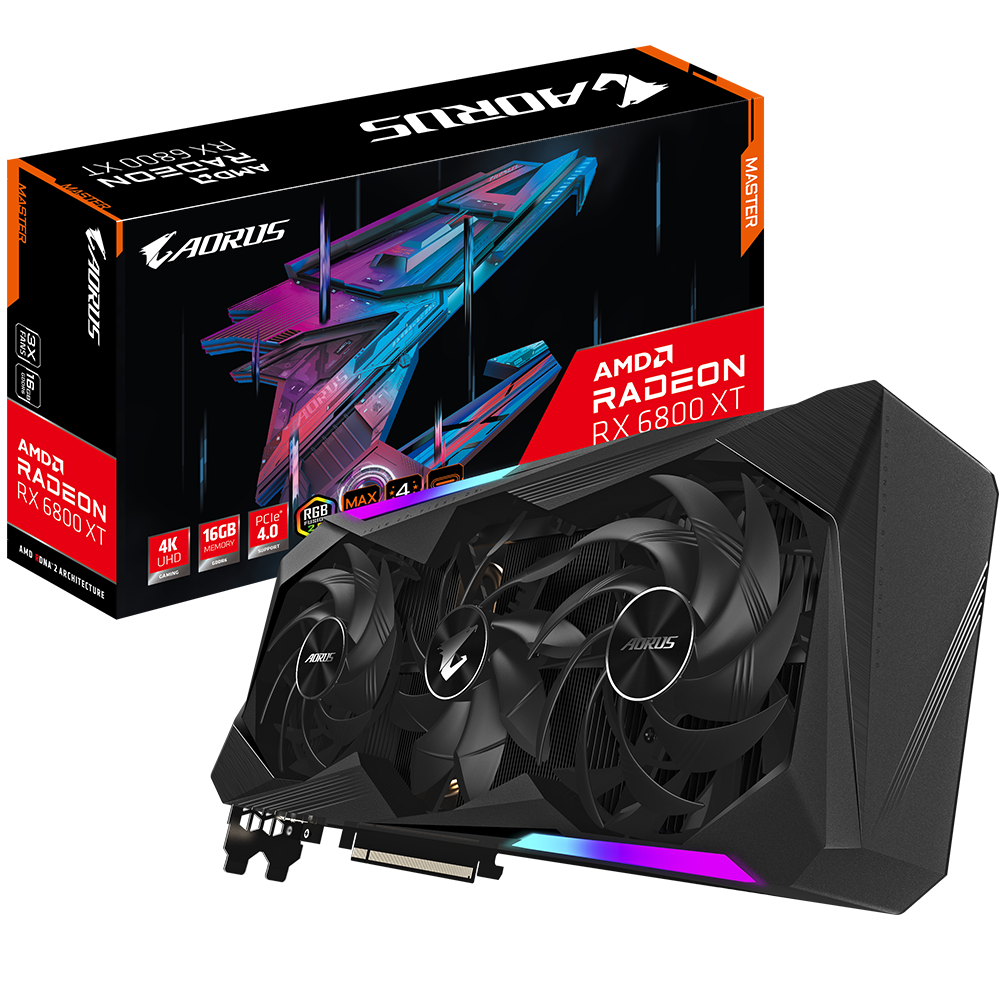
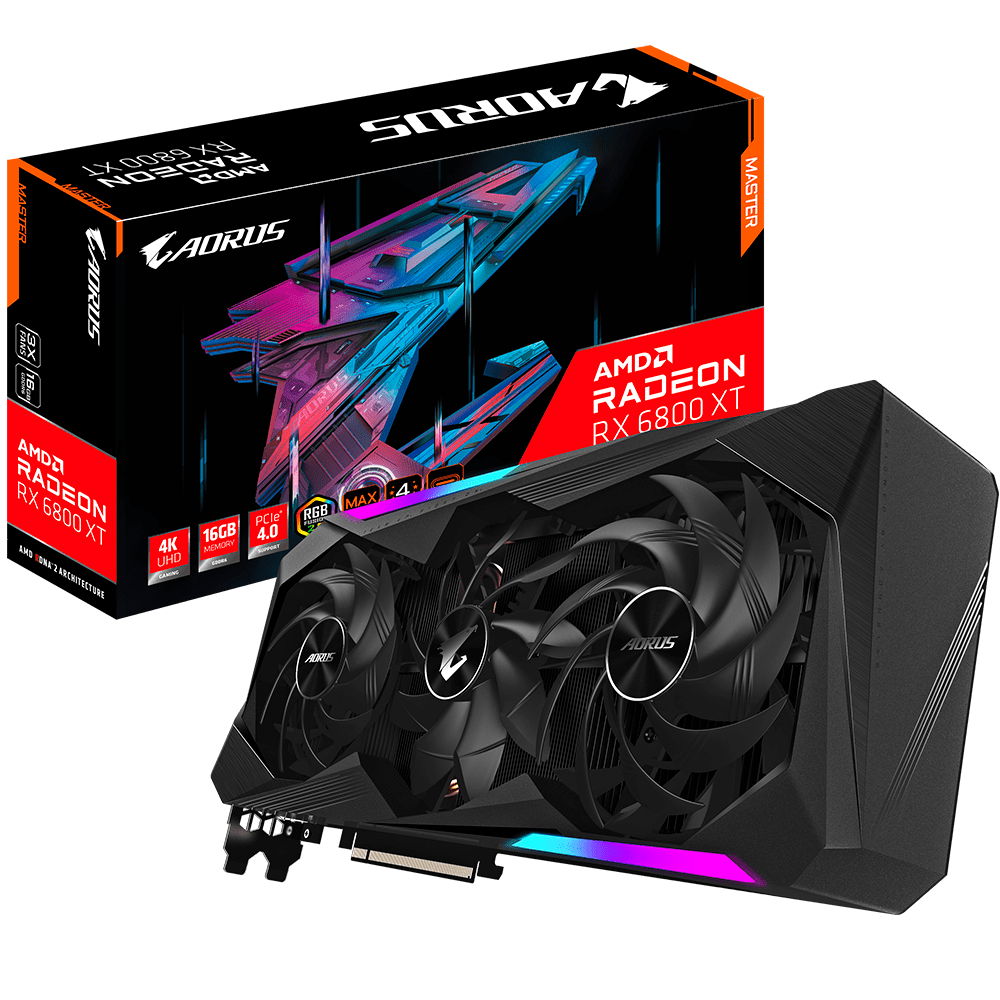
compressed wallpaper images

diff --git a/index.html b/index.html
@@ -211,13 +211,13 @@
         <div class="carousel__track-container">
             <ul class="carousel__track">
                 <li class="carousel__slide current-slide">
-                    <img src="./images/carousel/slider1.png" alt="">
+                    <img src="./images/carousel/slider1.jpg" alt="">
                 </li>
                 <li class="carousel__slide">
                     <img src="./images/carousel/slider2.jpg" alt="">
                 </li>
                 <li class="carousel__slide">
-                    <img src="./images/carousel/slider3.png" alt="">
+                    <img src="./images/carousel/slider3.jpg" alt="">
                 </li>
                 <li class="carousel__slide">
                     <img src="./images/carousel/slider4.jpg" alt="">
